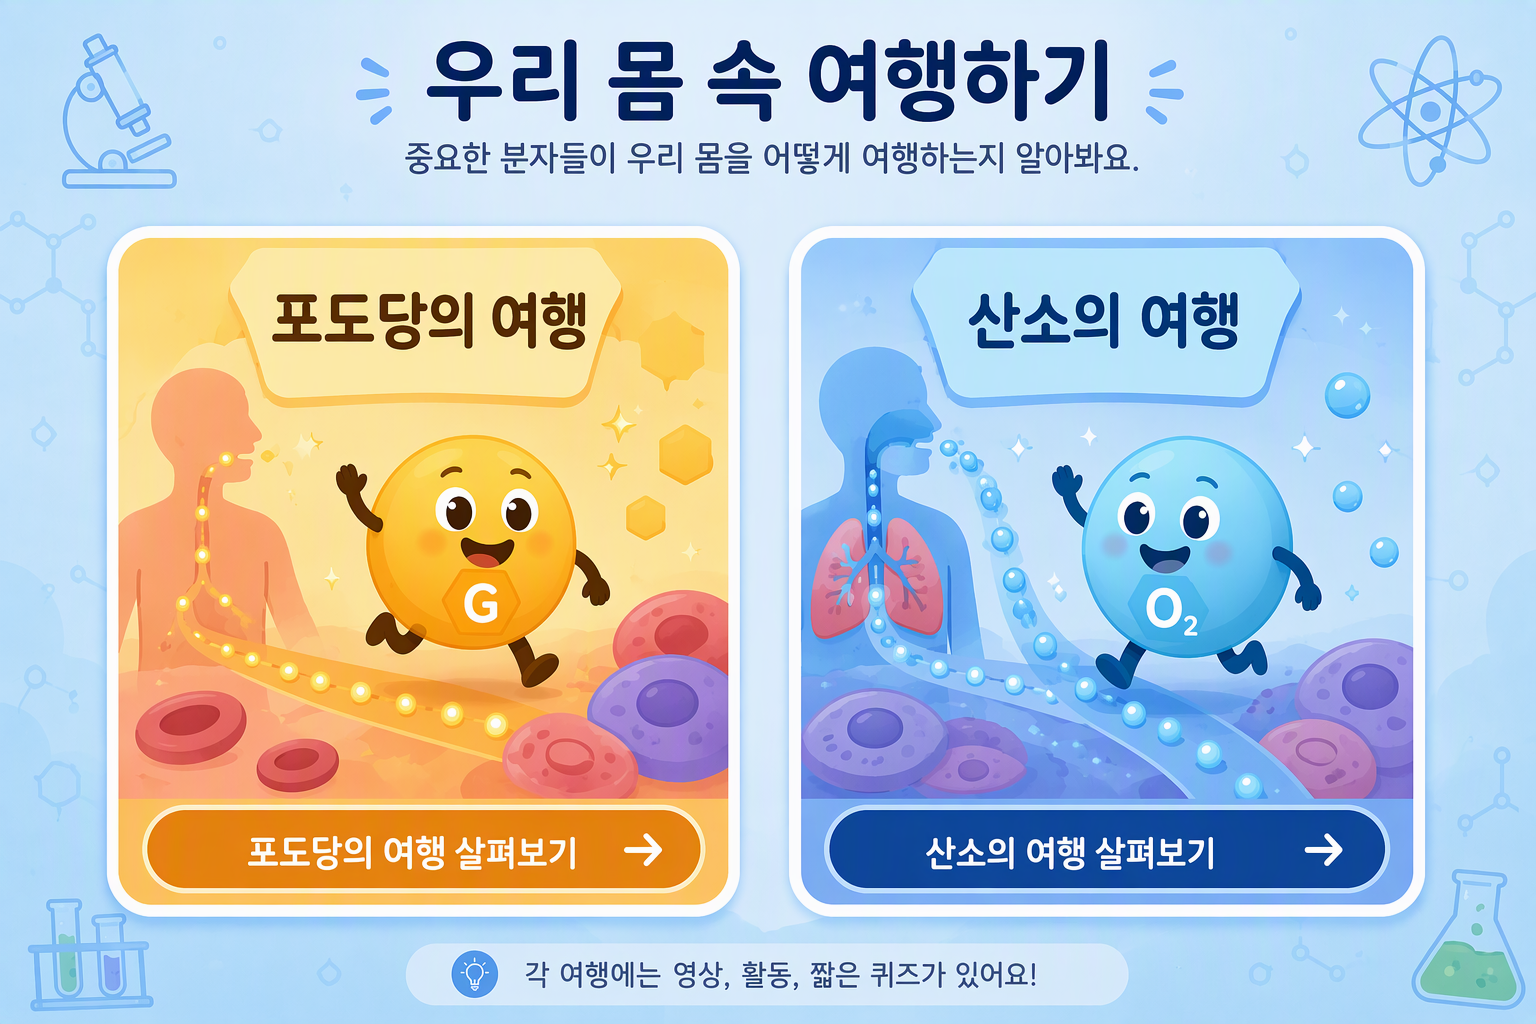
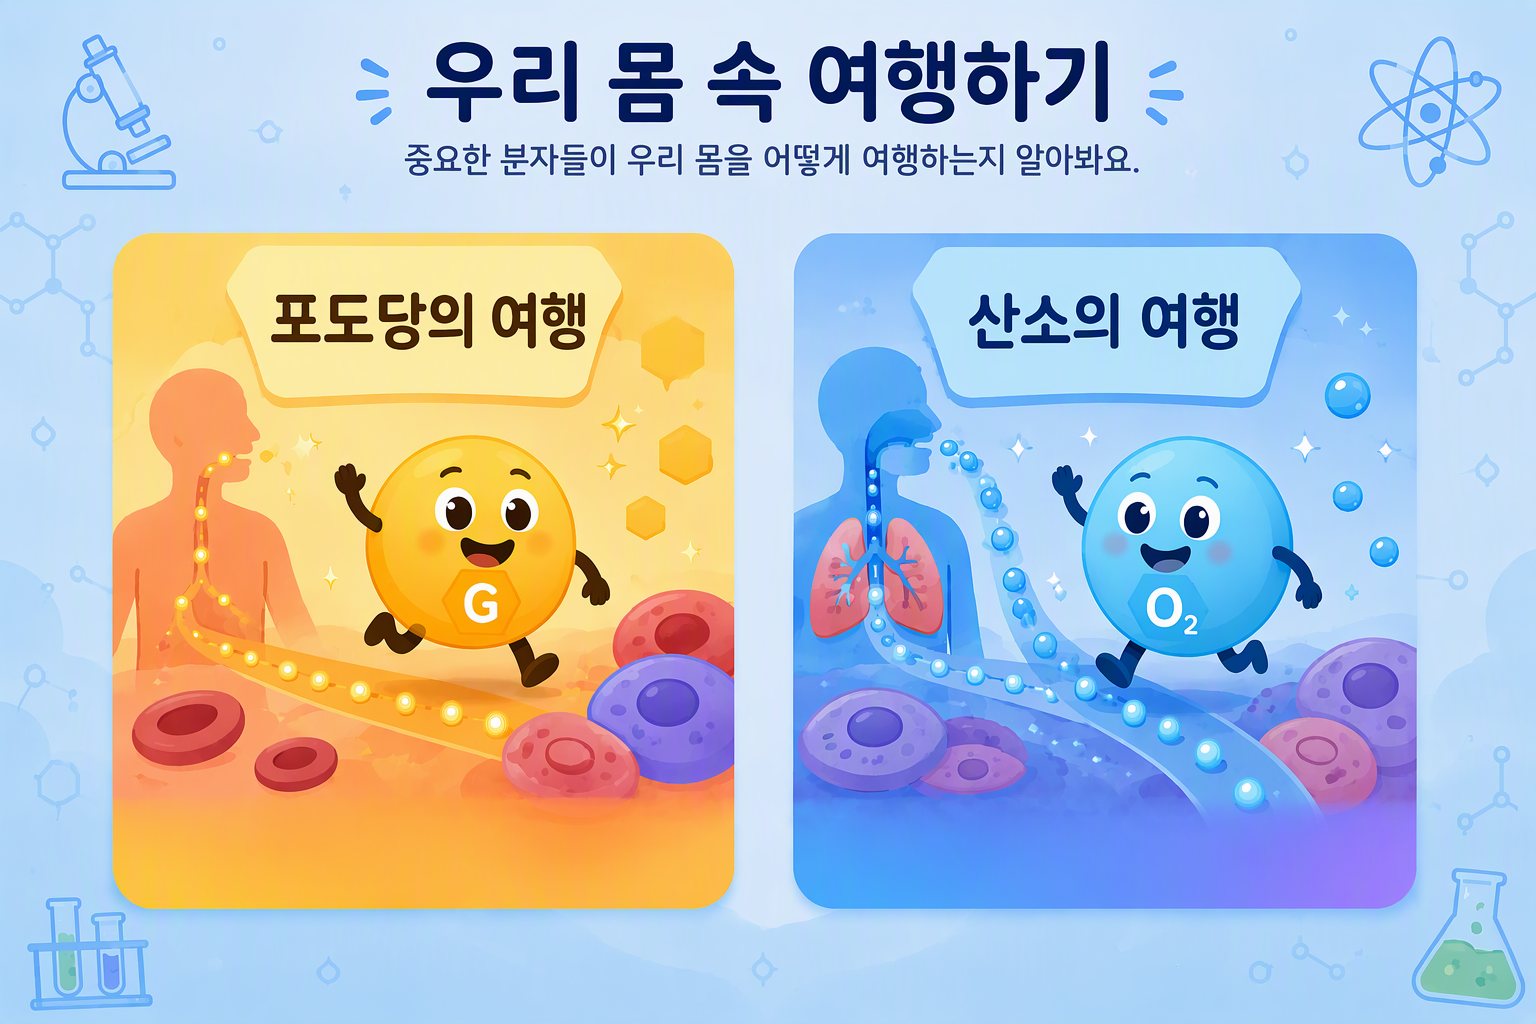
1013

diff --git a/index.html b/index.html
@@ -623,10 +623,9 @@ button { font-family: inherit; cursor: pointer; }
           </div>
           <p class="scene-desc">
             심장은 온몸의 <b>펌프</b>예요. 포도당은 <b>혈장</b>에 녹아 이동하고, 산소는 <b>적혈구</b>에 실려 이동해요.
-            버튼을 눌러 두 순환 경로를 따라가 볼까요?
+            버튼을 눌러 순환 경로를 따라가 볼까요?
           </p>
           <div class="route-btns">
-            <button type="button" class="route-btn pulm" id="btn-pulm" data-route="pulm" aria-controls="circ-caption">🫁 허파순환 따라가기</button>
             <button type="button" class="route-btn sys" id="btn-sys" data-route="sys" aria-controls="circ-caption">💪 온몸순환 따라가기</button>
           </div>
         </div>
@@ -863,6 +862,11 @@ button { font-family: inherit; cursor: pointer; }
           </div>
         </div>
         <div class="step-caption oxy" id="oxy-cap-pulm">버튼을 누르면 경로가 하나씩 표시돼요.</div>
+        <div class="card">
+          <div class="img-frame">
+            <img src="images/oxygen/폐순환.png" alt="폐순환 – 심장과 폐를 오가는 혈액 순환과 기체 교환" onerror="imgError(this)">
+          </div>
+        </div>
         <div class="card">
           <h3 style="margin-bottom:8px">🩸 산소는 적혈구에 실려 이동해요</h3>
           <div class="img-frame">
@@ -1694,14 +1698,6 @@ function resetAbsorb() {
    순환 장면 (경로 애니메이션)
    ===================================================================== */
 var ROUTES = {
-  pulm: {
-    btn: "#btn-pulm",
-    steps: [
-      { ring: [19, 23], cap: "<span class='cap-num'>①</span> 심장(우심실)에서 혈액이 나가 <b>폐</b>로 향해요. (폐동맥)" },
-      { ring: [52, 20], cap: "<span class='cap-num'>②</span> 폐의 <b>모세혈관</b>(허파꽈리 주변)에서 이산화 탄소를 내보내고 <b>산소</b>를 얻어요." },
-      { ring: [80, 23], cap: "<span class='cap-num'>③</span> 산소를 실은 혈액이 다시 심장(좌심방)으로 돌아와요. (폐정맥) — 이것이 <b>허파순환</b>!" }
-    ]
-  },
   sys: {
     btn: "#btn-sys",
     steps: [
@@ -1718,19 +1714,18 @@ function stopRouteAnimation(resetCaption) {
     clearTimeout(routeTimer);
     routeTimer = null;
   }
-  var pulm = $("#btn-pulm"), sys = $("#btn-sys");
-  [pulm, sys].forEach(function (btn) {
-    if (!btn) return;
-    btn.disabled = false;
-    btn.classList.remove("is-playing");
-    btn.removeAttribute("aria-busy");
-  });
+  var sys = $("#btn-sys");
+  if (sys) {
+    sys.disabled = false;
+    sys.classList.remove("is-playing");
+    sys.removeAttribute("aria-busy");
+  }
   var ring = $("#circ-ring");
   var traveler = $("#route-traveler");
   if (ring) ring.classList.remove("show");
   if (traveler) traveler.classList.remove("show");
   if (resetCaption && $("#circ-caption")) {
-    $("#circ-caption").textContent = "버튼을 눌러 허파순환 또는 온몸순환 경로를 확인해 보세요.";
+    $("#circ-caption").textContent = "버튼을 눌러 온몸순환 경로를 확인해 보세요.";
   }
 }
 
@@ -1744,12 +1739,11 @@ function initCirculationControls() {
 
 function playRoute(key) {
   var route = ROUTES[key];
-  var pulm = $("#btn-pulm"), sys = $("#btn-sys");
+  var sys = $("#btn-sys");
   var ring = $("#circ-ring"), cap = $("#circ-caption"), traveler = $("#route-traveler");
-  if (!route || !pulm || !sys || !ring || !cap) return;
+  if (!route || !sys || !ring || !cap) return;
 
   stopRouteAnimation(false);
-  pulm.disabled = true;
   sys.disabled = true;
   var activeBtn = $(route.btn);
   if (activeBtn) {
@@ -1761,9 +1755,7 @@ function playRoute(key) {
   function step() {
     if (i >= route.steps.length) {
       stopRouteAnimation(false);
-      cap.innerHTML = key === "pulm"
-        ? "🫁 <b>허파순환</b>: 심장 ↔ 폐 사이의 순환으로 <b>산소와 이산화 탄소를 교환</b>해요."
-        : "💪 <b>온몸순환</b>: 심장 ↔ 온몸 사이의 순환으로 <b>산소·영양소를 전달</b>하고 노폐물을 회수해요.";
+      cap.innerHTML = "💪 <b>온몸순환</b>: 심장 ↔ 온몸 사이의 순환으로 <b>산소·영양소를 전달</b>하고 노폐물을 회수해요.";
       return;
     }
     var s = route.steps[i];
@@ -1888,14 +1880,22 @@ var OXY_ROUTES = {
     steps: [
       { ring: [41, 58], cap: "<span class='cap-num'>① 우심방</span> 온몸에서 돌아온 <b>산소가 적은 혈액</b>이 모여 있는 곳이에요. 여기서 산소의 여행이 다시 시작돼요!" },
       { ring: [52, 69], cap: "<span class='cap-num'>② 우심실</span> 혈액을 받아 <b>폐동맥</b>으로 내보내요." },
-      { ring: [30, 34], cap: "<span class='cap-num'>③ 폐동맥</span> 산소가 적은 혈액을 <b>폐</b>로 운반해요." },
-      { ring: [15, 36], oxy2: true, cap: "<span class='cap-num'>④ 폐 (왼쪽)</span> 허파꽈리에서 이산화 탄소를 내려놓고 <b>산소(O₂)를 받았어요</b>. 산소가 <b>2개</b>로 불어났네요!" },
-      { ring: [24, 44], oxy2: true, cap: "<span class='cap-num'>⑤ 폐정맥</span> <b>산소 2개를 실은 혈액</b>이 심장으로 돌아가요." },
-      { ring: [54, 47], oxy2: true, cap: "<span class='cap-num'>⑥ 좌심방</span> 산소 가득한 혈액이 심장으로 들어와요." },
-      { ring: [59, 68], oxy2: true, cap: "<span class='cap-num'>⑦ 좌심실</span> 심장에서 가장 두꺼운 벽! 혈액을 <b>온몸으로</b> 힘차게 내보내요." },
-      { ring: [67, 63], oxy2: true, cap: "<span class='cap-num'>⑧ 대동맥</span> 산소 가득한 혈액이 <b>온몸</b>으로 향하는 큰 길이에요." },
-      { ring: [53, 91], oxy2: true, cap: "<span class='cap-num'>⑨ 온몸 모세혈관</span> 조직 세포에 <b>산소를 전달</b>하고, 이산화 탄소를 받아요." },
-      { ring: [39, 82], cap: "<span class='cap-num'>⑩ 하대정맥</span> 산소를 전달하고 <b>1개</b>가 된 산소가 다시 심장(<b>우심방</b>)으로 돌아와요. — 순환 완성!" }
+      { ring: [47, 48], cap: "<span class='cap-num'>③</span> 우심실에서 나온 혈액이 <b>폐동맥</b>을 따라 폐를 향해 올라가고 있어요." },
+      { ring: [38, 36], cap: "<span class='cap-num'>④</span> 폐동맥을 따라 <b>폐</b>를 향해 이동하고 있어요." },
+      { ring: [30, 34], cap: "<span class='cap-num'>⑤ 폐동맥</span> 산소가 적은 혈액을 <b>폐</b>로 운반해요." },
+      { ring: [15, 36], oxy2: true, cap: "<span class='cap-num'>⑥ 폐 (왼쪽)</span> 허파꽈리에서 이산화 탄소를 내려놓고 <b>산소(O₂)를 받았어요</b>. 산소가 <b>2개</b>로 불어났네요!" },
+      { ring: [24, 44], oxy2: true, cap: "<span class='cap-num'>⑦ 폐정맥</span> <b>산소 2개를 실은 혈액</b>이 심장으로 돌아가요." },
+      { ring: [44.5, 44], oxy2: true, cap: "<span class='cap-num'>⑧</span> <b>산소 2개를 실은 혈액</b>이 폐정맥을 따라 심장으로 다가가고 있어요." },
+      { ring: [54, 47], oxy2: true, cap: "<span class='cap-num'>⑨ 좌심방</span> 산소 가득한 혈액이 심장으로 들어와요." },
+      { ring: [59, 68], oxy2: true, cap: "<span class='cap-num'>⑩ 좌심실</span> 심장에서 가장 두꺼운 벽! 혈액을 <b>온몸으로</b> 힘차게 내보내요." },
+      { ring: [56.5, 58], oxy2: true, cap: "<span class='cap-num'>⑪ 대동맥판</span> 좌심실에서 나온 혈액이 <b>대동맥판</b>을 지나 <b>대동맥</b>으로 나가요." },
+      { ring: [51.2, 31], oxy2: true, cap: "<span class='cap-num'>⑫ 상행 대동맥</span> 대동맥을 따라 혈액이 <b>위로</b> 올라가고 있어요. 일부는 <b>머리·팔</b>로 갈라져요." },
+      { ring: [63.5, 45], oxy2: true, cap: "<span class='cap-num'>⑬</span> 대동맥이 꺾여 혈액이 <b>아래 몸통</b>을 향해 내려가고 있어요." },
+      { ring: [67, 63], oxy2: true, cap: "<span class='cap-num'>⑭ 대동맥</span> 산소 가득한 혈액이 <b>온몸</b>으로 향하는 큰 길이에요." },
+      { ring: [66.5, 73], oxy2: true, cap: "<span class='cap-num'>⑮</span> 대동맥을 따라 혈액이 <b>온몸</b>을 향해 내려가고 있어요." },
+      { ring: [66, 83], oxy2: true, cap: "<span class='cap-num'>⑯</span> 대동맥을 따라 내려온 혈액이 <b>온몸 모세혈관</b>으로 향하고 있어요." },
+      { ring: [53, 91], oxy2: true, cap: "<span class='cap-num'>⑰ 온몸 모세혈관</span> 조직 세포에 <b>산소를 전달</b>하고, 이산화 탄소를 받아요." },
+      { ring: [39, 82], cap: "<span class='cap-num'>⑱ 하대정맥</span> 산소를 전달하고 <b>1개</b>가 된 산소가 다시 심장(<b>우심방</b>)으로 돌아와요. — 순환 완성!" }
     ]
   },
   sys: {

diff --git a/WORKLOG.md b/WORKLOG.md
@@ -73,12 +73,10 @@
 
 ### 3.4 순환 장면 경로 링 (`ROUTES` 배열)
 이미지: `images/허파순환과 온몸순환 경로.jpg` (1024×1536, 2026-10-13 갱신본 — 기관 라벨 포함). 픽셀 샘플링 측정 + 렌더링 검증 완료.
+※ 2026-10-13 변경(#22): 허파순환 경로·버튼은 삭제됨 — 온몸순환만 사용.
 
 | 경로 | 단계 | 링 (x, y %) | 가리키는 구조 |
 |---|---|---|---|
-| 허파순환 | ① | 19, 23 | 폐동맥 (파란 관) |
-| 허파순환 | ② | 52, 20 | 폐 모세혈관 그물 중심 |
-| 허파순환 | ③ | 80, 23 | 폐정맥 (빨간 관) |
 | 온몸순환 | ① | 81, 62 | 대동맥 (빨간 관) |
 | 온몸순환 | ② | 49, 78 | 온몸 모세혈관 그물 중심 |
 | 온몸순환 | ③ | 17, 62 | 대정맥 (파란 관) |
@@ -91,7 +89,7 @@
 | 호흡계 (`OXY_AIRWAY_STEPS`) | Basic Respiratory System Diagram – Front View.png (1122×1402) | 코 35,29 · 숨관 54,44 · 숨관가지 53,59 · 폐 52,72 |
 | 들숨/날숨 (`OXY_BREATH_STEPS`) | Diaphragm Movement – Inhalation and Exhalation.jpg (1536×1024) | 들숨 26,45 · 날숨 74,45 |
 | 허파꽈리 (`OXY_ALVEOLI_STEPS`) | Alveolus Close-up – Oxygen and Carbon Dioxide Exchange.png (1402×1122) | O₂→혈액 70,50 · CO₂→허파꽈리 25,50 |
-| 허파순환 (`OXY_ROUTES.pulm`) | Heart and Lungs – Pulmonary Circulation Focus.jpg (1265×1244, 통합 순환도) | 우심방 41,58 → 우심실 52,69 → 폐동맥 30,34 → 폐(왼쪽) 15,36 → 폐정맥 24,44 → 좌심방 54,47 → 좌심실 59,68 → 대동맥 67,63 → 온몸 모세혈관(아래) 53,91 → 하대정맥 39,82 (폐 이후 산소 2개 표시, 모세혈관 통과 후 1개) |
+| 허파순환 (`OXY_ROUTES.pulm`) | Heart and Lungs – Pulmonary Circulation Focus.jpg (1265×1244, 통합 순환도) | 우심방 41,58 → 우심실 52,69 → 폐동맥 상행 47,48 → 폐동맥 아치 38,36 → 폐동맥 30,34 → 폐(왼쪽) 15,36 → 폐정맥 24,44 → 폐정맥 횡단 44.5,44 → 좌심방 54,47 → 좌심실 59,68 → 대동맥판 56.5,58 → 상행 대동맥 51.2,31 → 하행 대동맥 시작 63.5,45 → 대동맥 67,63 → 하행 대동맥 상부 66.5,73 → 하행 대동맥 하부 66,83 → 온몸 모세혈관(아래) 53,91 → 하대정맥 39,82 (폐 이후 산소 2개 표시, 모세혈관 통과 후 1개) |
 | 온몸순환 (`OXY_ROUTES.sys`) | Systemic Circulation – Oxygen to the Body.jpg (1122×1402) | 심장 50,47 · 머리 조직 51,24 · 정맥 복귀 73,52 |
 
 ※ 산소 마스코트(`Oxygen Mascot Character.jpg`)는 가짜 투명 배경(체커보드 jpg)이라 `clip-path: circle()`로 얼굴 원만 크롭해 사용 (`.mascot-o2`, `.route-traveler.oxy img`).
@@ -117,6 +115,11 @@
 15. **산소 코스 후속 수정** — ① 헤더 좌상단 로고를 코스별로 전환(산소 코스 진입 시 O₂ 마스코트+"산소의 여행", 홈에서는 "우리 몸 속 여행하기" 중립 표기, `renderHeader`) ② 호흡계 ④폐 단계 링을 2개로 확장해 양쪽 폐를 동시에 표시(`#oxy-ring-airway2` + 스텝 데이터 `ring2` 속성, `oxyStepMove` 다중 링 지원). 폐 링 좌표는 피부색까지 잡은 1차 측정 오류를 폐 조직 전용 필터(R−G>60, |G−B|<45)로 재측정해 좌 41,70 / 우 68,70으로 확정. 렌더 검증 완료.
 16. **산소 허파순환 장면 전체 순환 경로로 개편** — `images/oxygen/Heart and Lungs – Pulmonary Circulation Focus.jpg` 교체본(허파+온몸 통합 순환도, 1265×1244) 반영. 버튼 문구 "허파순환 따라가기"→"허파순환 온몸순환 따라가기", 경로를 요청 순서대로 10스텝으로 재구성: 우심방(41,58)→우심실(52,69)→폐동맥(30,34)→폐·왼쪽(15,36)→폐정맥(24,44)→좌심방(54,47)→좌심실(59,68)→대동맥(67,63)→온몸 모세혈관(53,91)→하대정맥(39,82). 폐는 왼쪽 폐만, 모세혈관은 아래쪽 메시만 표시. 픽셀 샘플링 측정 + 렌더 검증, 콘솔 에러 0건.
 17. **산소 개수 연출** — 산소 이동 경로 애니메이션에 개수 변화 추가: 폐(④)에서 산소를 받으면 캐릭터가 **2개(듀오)**로 표시되고(⑤~⑨ 유지), 온몸 모세혈관(⑨)을 지나 하대정맥(⑩)부터는 **1개**로 복귀(`.route-traveler.oxy.duo` CSS + 스텝 데이터 `oxy2` 플래그, `playOxyRoute`에서 토글). 모세혈관 링도 위(48,10)→아래(53,91)로 이동. 렌더 검증 완료.
+18. **산소 허파순환 경로 중간 단계 3개 추가(10→13단계)** — 클릭 시 이동이 급작스럽다는 현장 피드백 반영. 이동거리가 큰 3구간(②우심실→폐동맥 Δ41 / ⑤폐정맥→좌심방 Δ30 / ⑧대동맥→⑨모세혈관 Δ31)마다 실제 혈관 위 경유 단계를 1개씩 삽입: ③ 폐동맥 상행(47,48) "폐동맥을 따라 폐를 향해 올라가고 있어요" / ⑦ 폐정맥 횡단(44.5,44) "폐정맥을 따라 심장으로 다가가고 있어요" / ⑪ 하행 대동맥(66,83) "대동맥을 따라 온몸으로 내려가고 있어요"(모두 `oxy2` 플래그는 폐 이후만 유지). 좌표는 픽셀 샘플링으로 혈관 대조 확인(폐동맥 몸통 blue 120/121, 폐정맥 red 121/121, 하행 대동맥 red 확인 — 라벨 잉크·흰 배경 회피). 최대 단계 간 이동거리 41→22%로 완화, 전체 재생 13×2.2s≈29s. 브라우저 클릭 시나리오로 13단계 전체 재생·완료 캡션·버튼 복귀·온몸순환 경로(3단계) 회귀 검증, 콘솔 에러 0건.
+19. **허파순환 장면에 폐순환 자료 이미지 추가** — 사용자 제공 이미지를 `images/oxygen/폐순환.png`(1536×1024)로 저장하고, 산소 코스 허파순환 장면(`#scene-oxy_pulm`)의 안내 캡션("버튼을 누르면 경로가 하나씩 표시돼요.") 바로 아래에 이미지 카드로 삽입(적혈구 카드 앞). 심장 단면과 폐동맥(파랑)/폐정맥(빨강) 화살표, O₂/CO₂ 교환 범례가 포함된 자료로 기존 통합 순환도와 별도 표시. 브라우저 로드 검증 완료(404 없음).
+20. **산소 허파순환 경로 중간 단계 2개 추가(13→15단계)** — 추가 피드백: ②우심실→폐 구간과 좌심실→대동맥→모세혈관 구간이 여전히 급작스럽다는 요청. 각 구간에 경유 단계 1개씩 추가: ④ 폐동맥 아치(38,36) "폐동맥을 따라 폐를 향해 이동하고 있어요" (blue 121/121 픽셀 검증), ⑫ 하행 대동맥 상부(66.5,73) "대동맥을 따라 혈액이 온몸을 향해 내려가고 있어요" (red 혈관 대조 확인 — 혈관 중앙 흰 하이라이트 선 포함). 기존 ⑪(66,83) 캡션은 "대동맥을 따라 내려온 혈액이 온몸 모세혈관으로 향하고 있어요"로 수정해 ⑫과 문구 중복 해소. 구간 내 최대 이동거리: 우심실→폐 22→15%, 대동맥 하행 20→10%. 전체 재생 15×2.2s≈33s. 브라우저 클릭 시나리오로 15단계 전체 재생·새 단계 링 위치 스크린샷 검증, 콘솔 에러 0건.
+21. **좌심실→대동맥 구간 3단계 추가(15→18단계) + 대동맥 아치 경로 반영** — 좌심실에서 바로 하행 대동맥으로 점프하던 것을 실제 혈관 형태(대동맥판 → 상행 대동맥 상승 → 아치에서 꺾임 → 하행)로 따라가도록 3단계 추가: ⑪ 대동맥판(56.5,58) "좌심실에서 나온 혈액이 대동맥판을 지나 대동맥으로 나가요" (red 158/169, 이미지 라벨 '대동맥판' 지시점), ⑫ 상행 대동맥(51.2,31) "대동맥을 따라 혈액이 위로 올라가고 있어요. 일부는 머리·팔로 갈라져요" (red 129, 상행 화살표 잉크 회피), ⑬ 하행 이행(63.5,45) "대동맥이 꺾여 혈액이 아래 몸통을 향해 내려가고 있어요" (red 117). 영역 판별은 심장 상부 크롭 확대(42~76%, 10~72%)로 혈관 주행을 육안 추적 + 박스 샘플링 병행. 기존 대동맥·하행·모세혈관·하대정맥 단계는 ⑭~⑱으로 재번호. 전체 재생 18×2.2s≈40s. 브라우저 클릭 시나리오로 18단계 재생·새 단계 3개 링 위치 스크린샷 검증, 콘솔 에러 0건.
+22. **포도당 코스 순환 장면 허파순환 버튼 삭제** — "순환 – 혈액 타고 온몸 여행"에서 "🫁 허파순환 따라가기" 버튼 제거(온몸순환 버튼만 유지). `ROUTES.pulm` 경로 데이터도 함께 삭제하고, `playRoute`의 `#btn-pulm` 필수 검사·비활성화 로직과 완료 캡션의 허파순환 분기를 정리(버튼만 지우면 온몸순환까지 작동하지 않는 구조였음). 장면 설명 "두 순환 경로"→"순환 경로", 캡션 리셋 문구도 "온몸순환 경로"로 수정. 브라우저로 온몸순환 재생·완료·버튼 복귀 검증, 콘솔 에러 0건.
 
 ---
 
